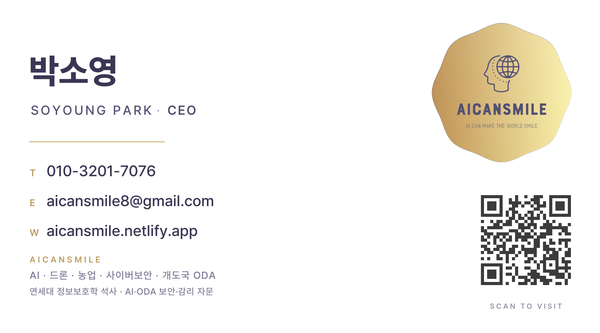
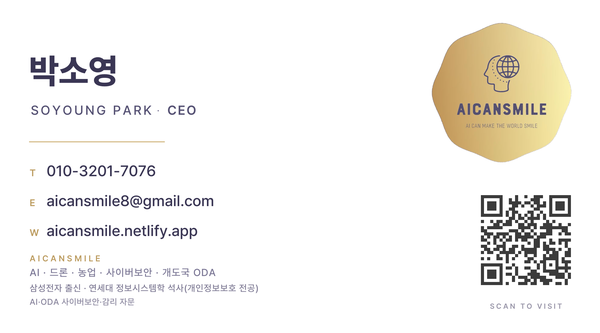
fix(credential): 학력·경력 표기를 '삼성전자 출신 · 연세대 정보시스템학 석사(개인정보보호 전공)'으로 정정
- Hero 자격 줄, 수행역량 03 카드, 자문 영역, About, meta description 반영
- 디지털 명함·서명 이미지(assets) 뒷면 하단 3번째 줄 갱신
- AICANSMILE_VISION.MD 동일 표기로 정리

Changed region(s): [[0.03, 0.7508, 0.45, 0.9309]]

diff --git a/index.html b/index.html
@@ -4,7 +4,7 @@
     <meta charset="UTF-8">
     <meta name="viewport" content="width=device-width, initial-scale=1.0">
     <title>AICANSMILE — AI·드론·농업에 사이버보안·감리 자문까지, 개도국 ODA로 확장합니다</title>
-    <meta name="description" content="AICANSMILE은 드론·AI 비전으로 곤포 사일리지를 자동 탐지·계수하는 SiloVisionX를 서귀포 축산 현장에서 검증하고, 동일 엔진을 몽골 초원의 가축 계수·목초지 모니터링 ODA로 확장합니다. 연세대 정보보호학 석사 기반의 AI·ODA 사이버보안·감리 자문을 함께 제공합니다.">
+    <meta name="description" content="AICANSMILE은 드론·AI 비전으로 곤포 사일리지를 자동 탐지·계수하는 SiloVisionX를 서귀포 축산 현장에서 검증하고, 동일 엔진을 몽골 초원의 가축 계수·목초지 모니터링 ODA로 확장합니다. 삼성전자 출신·연세대 정보시스템학 석사(개인정보보호 전공) 기반의 AI·ODA 사이버보안·감리 자문을 함께 제공합니다.">
     <link rel="stylesheet" href="style.css">
     <link href="https://unpkg.com/aos@2.3.1/dist/aos.css" rel="stylesheet">
 </head>
@@ -44,7 +44,7 @@
                     같은 비전 엔진으로 몽골 초원의 양떼와 목초지를 읽습니다.
                 </p>
                 <p class="hero-cred">
-                    <span>연세대 정보보호학 석사</span>
+                    <span>삼성전자 출신 · 연세대 정보시스템학 석사(개인정보보호 전공)</span>
                     <span><strong>AI·ODA 사이버보안·감리 자문</strong></span>
                 </p>
                 <div class="hero-buttons">
@@ -320,10 +320,10 @@
                     <span class="why-num">03</span>
                     <h3>사이버보안·정보보호 전문성</h3>
                     <ul>
-                        <li>연세대학교 <strong>정보보호학 석사</strong></li>
+                        <li>삼성전자 출신 · 연세대학교 <strong>정보시스템학 석사(개인정보보호 전공)</strong></li>
                         <li>ISMS-P·데이터 표준계약·AI 거버넌스 실무 교육·과제 수행</li>
                         <li>공공·ODA <strong>AI 사이버보안·감리 자문</strong></li>
-                        <li>삼성전자 IT 실무 · YOLO·Edge AI 자체 개발 역량</li>
+                        <li>YOLO·Edge AI 자체 개발 역량</li>
                     </ul>
                     <p class="why-foot">기술을 만들고, 그 기술이 신뢰받도록 설계합니다.</p>
                 </article>
@@ -363,7 +363,7 @@
             <div class="advisory" data-aos="fade-up">
                 <div class="advisory-copy">
                     <h3>AI Governance &amp; Cybersecurity Advisory</h3>
-                    <p>AI를 도입하는 조직이 기술과 신뢰를 함께 확보하도록, 거버넌스 체계와 사이버보안을 처음부터 함께 설계합니다. 연세대 정보보호학 석사와 ISMS-P·데이터 표준계약 실무 교육·과제 수행 경험을 바탕으로, AI·ODA 사업의 보안 요구사항 정의와 감리 대응까지 지원합니다.</p>
+                    <p>AI를 도입하는 조직이 기술과 신뢰를 함께 확보하도록, 거버넌스 체계와 사이버보안을 처음부터 함께 설계합니다. 삼성전자 출신 · 연세대 정보시스템학 석사(개인정보보호 전공)와 ISMS-P·데이터 표준계약 실무 교육·과제 수행 경험을 바탕으로, AI·ODA 사업의 보안 요구사항 정의와 감리 대응까지 지원합니다.</p>
                 </div>
                 <ul class="advisory-badges">
                     <li>AI·ODA 사이버보안 자문</li>
@@ -395,7 +395,7 @@
                         세 축이 서로의 실적과 신뢰를 떠받칩니다.
                     </p>
                     <p>
-                        특히 <strong>연세대학교 정보보호학 석사</strong>와 ISMS-P·데이터 표준계약 실무 경험을 바탕으로,
+                        특히 <strong>삼성전자 출신 · 연세대학교 정보시스템학 석사(개인정보보호 전공)</strong> 이력과 ISMS-P·데이터 표준계약 실무 경험을 바탕으로,
                         AI·ODA 사업에 필요한 <strong>사이버보안·개인정보·감리 자문</strong>을 기술 개발과 함께 제공합니다.
                     </p>
                 </div>

diff --git a/AICANSMILE_VISION.MD b/AICANSMILE_VISION.MD
@@ -28,7 +28,7 @@
 | 역량 구분 | 내용 | 기여 |
 | :--- | :--- | :--- |
 | **1. 현장 문제 해결 역량** | - **글로벌 비전 수립:** 미 연방정부내무부(NPS) 인턴, 월드뱅크 강연 등에서 '빈곤 종식' 비전 수립.<br>- **글로벌 현장 실행:** KOICA 네팔 ODA 파견(3년)으로 비전 실행.<br>- **국내 현장 실무:** 서귀포시 축산과 사일리지 보조금 지원·시료 분석 및 목초지 카운팅 실무, 1차 산업(농/수산) 현장 경험. | - 네팔에서 목격한 문제(산모, 아동, 포터)는 본 사업(Impact Lab)의 핵심 동기가 됨.<br>- IT 기술, 1차 산업, 행정, 소상공인의 경험을 융합하여 다각적인 문제 해결(Cross-Domain Solution) 가능. |
-| **2. 안정적인 기술 구현** | - 삼성전자 등 IT 실무 경험 (서버 아키텍처, PM)<br>- 연세대학교 정보보호 석사 (보안, 프라이버시) | - 기술을 '고객 가치'로 연결하는 PM 역량.<br>- AI 서비스의 인프라와 데이터를 안전하게 설계/운영(DevSecOps)하는 역량. |
+| **2. 안정적인 기술 구현** | - 삼성전자 IT 실무 경험 (서버 아키텍처, PM)<br>- 연세대학교 정보시스템학 석사(개인정보보호 전공) | - 기술을 '고객 가치'로 연결하는 PM 역량.<br>- AI 서비스의 인프라와 데이터를 안전하게 설계/운영(DevSecOps)하는 역량. |
 | **3. AI 솔루션 개발력** | - 딥러닝(PyTorch), RAG/GenAI, CV 등 최신 AI 스택.<br>- 인텔 임원 출신 강사진의 'AI App Development' 교육 이수. | - 현장 문제를 AI로 직접 구현/배포하는 'All-in-One' 개발력으로 1인 기업의 실행력 확보.<br>- 사업화와 투자 유치(Venture) 관점의 솔루션 기획. |
 
 ***
